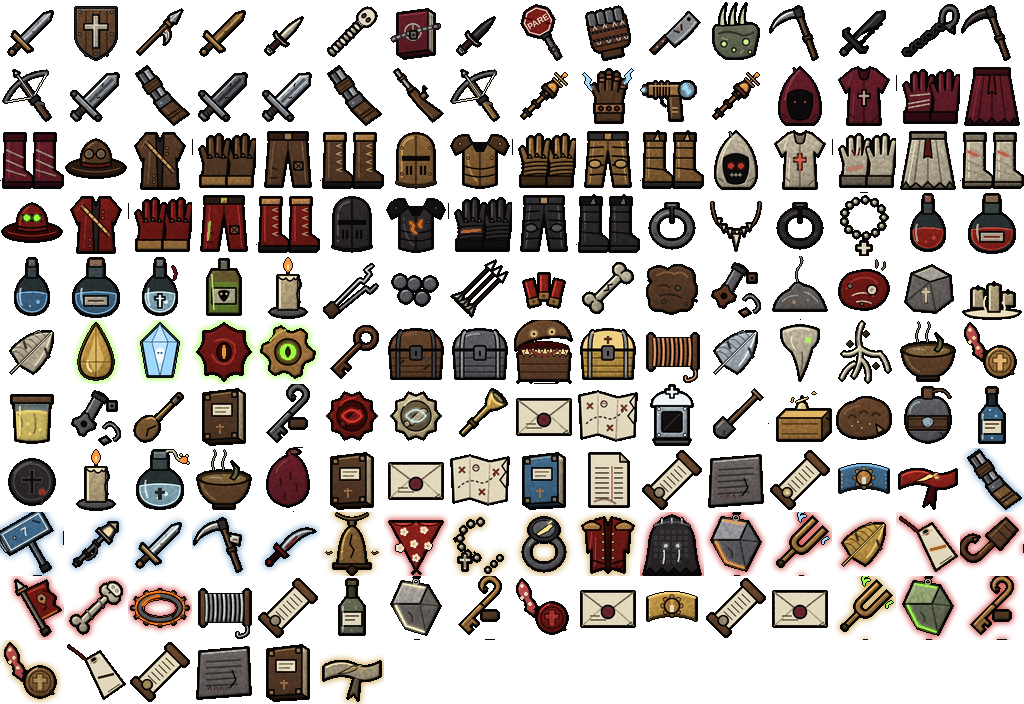
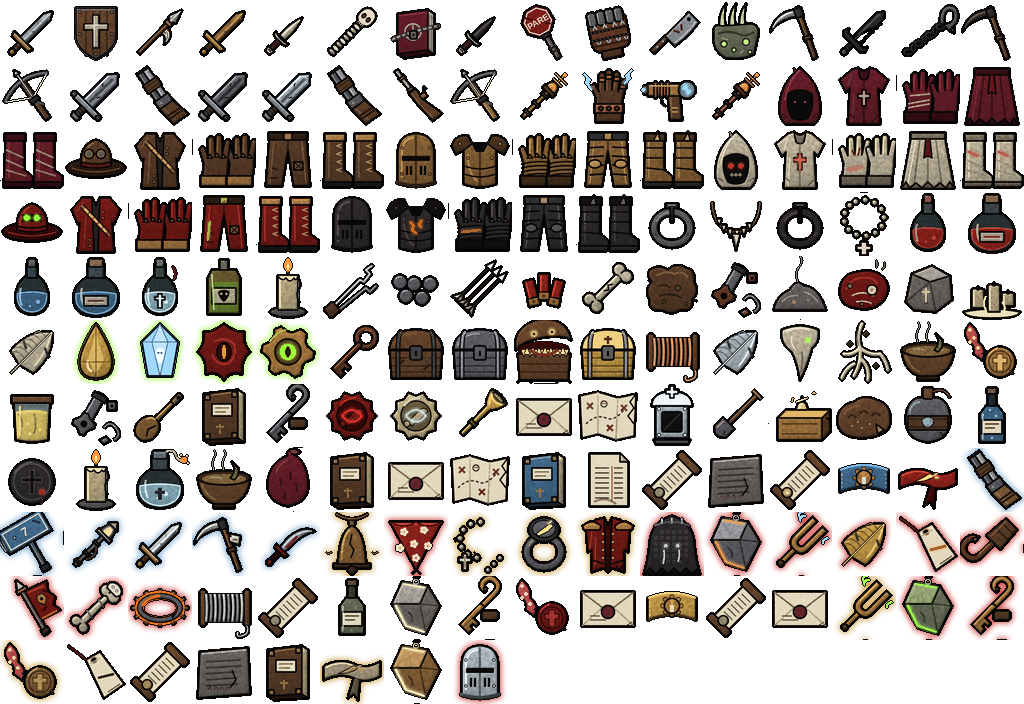
Linha F: final "O Que Cura" revela que Simão é o arcanjo Rafael; Elmo de Rafael
Claude-Session: https://claude.ai/code/session_01TeJYJFHcFMgk6Qv3uMBtUj

Changed region(s): [[0.375, 0.9062, 0.5, 1.0]]

diff --git a/design/skills-itens/fontes/itens_data.py b/design/skills-itens/fontes/itens_data.py
@@ -144,6 +144,7 @@ MISSOES = {
  "leitura_carta_apostata":("carta","pano",None,[1,1]), "contador_isaura":("diapasao","latao","#9dff4a",[1,2]),
  "placa_coveiro":("etiqueta","ferro",None,[1,1]), "folha_tombo":("pergaminho","ouro",None,[1,1]), "ultimo_tijolo":("tabua","cinza",None,[1,1]),
  "leitura_livro_tombo":("livro","couro",None,[2,2]), "faixas_betania":("fita","pano",None,[1,1]),
+ "eco_do_nome":("estilhaco","bronze","#fff2c0",[1,1]), "elmo_rafael":("elmo_pesado","prata","#fff2c0",[2,2]),
 }
 # lendario:<chefe/elite> de drops.json -> itens com nome da thread Missões
 POOLS_LENDARIOS = {

diff --git a/design/missoes/historia.md b/design/missoes/historia.md
@@ -129,7 +129,7 @@ A igreja da paróquia, enterrada até as janelas do coro. Só a torre e o telhad
 
 **Simão** cuida do Cemitério de São Lázaro desde que alguém se lembra. No deserto, o trabalho do coveiro virou o contrário: a maré de areia desenterra os túmulos toda noite, e ele passa os dias cobrindo de novo. Ele é o único que anda entre os Não-Julgados sem ser atacado. Não serve nenhuma facção. Atende quem trouxer velas.
 
-O segredo dele (nunca dito em voz alta, só insinuado): Simão é **Lázaro**, o homem que foi chamado de volta da morte há dois mil anos. Morreu duas vezes e não conseguiu ficar morto nenhuma. A cidade tem o nome dele. Quando a trombeta der a nota inteira, ele finalmente será julgado, e ele ainda não decidiu se quer isso.
+O segredo dele (nunca dito em voz alta, só insinuado; ver 4.1, onde a linha F revela que até isso é disfarce): Simão é **Lázaro**, o homem que foi chamado de volta da morte há dois mil anos. Morreu duas vezes e não conseguiu ficar morto nenhuma. A cidade tem o nome dele. Quando a trombeta der a nota inteira, ele finalmente será julgado, e ele ainda não decidiu se quer isso.
 
 ### 4.1 Linha F: Vem Para Fora (o mistério de quem foi São Lázaro)
 
@@ -142,6 +142,12 @@ Pedida pelo Jefin (11/10/2026). Níveis 4 a 11, as duas facções. Nunca confirm
 | f03 | Corvina | O Livro do Tombo: em 1688 chegou "de Betânia" um homem com faixas de linho que pediu o ofício de coveiro; "Já fui um"; morreu em 1714, 1803 e 1891 e sempre voltou |
 | f04 | Frei Anacleto | Simão assentou o último tijolo da cela de Anacleto em 1693; o tijolo tem LAZARVS riscado e, embaixo, SIMÃO |
 | f05 | Simão | O Primeiro Sepulcro, vazio e varrido, com "Lázaro, vem para fora" gravado em grego. Escolha: guardar o segredo, perguntar o que ele quer quando a nota terminar, ou contar à facção |
+
+| f06 | Frei Anacleto, entrega Simão (requer f05 e c06) | **A verdade:** um eco na Câmara da Trombeta chama "Rafael". Simão não é Lázaro: é o **arcanjo Rafael** ("Deus cura"). |
+
+**A verdade de Simão (ideia do Jefin, 11/10/2026).** Em 1688 o Coro mandou o arcanjo Rafael guardar a quinta trombeta debaixo de uma vila sem nome. Ele tomou o nome de Lázaro, o homem que viu sair do túmulo em Betânia (foi lá que viu Jesus chorar por um humano e entendeu que o fim não era o plano inteiro), e o ofício de coveiro. Em três séculos se afeiçoou aos humanos; "morreu" em 1714, 1803 e 1891 e sempre voltou, porque arcanjo não morre direito. Na meia nota, não conseguiu permitir o fim: na **Batalha do Impasse**, no céu sobre São Lázaro, lutou contra o próprio Coro e segurou a guarda de Zacarias por três segundos, a janela que a Vigília precisou para vazar o chumbo no bocal. O Coro arrancou suas asas; as faixas de linho escondem as cicatrizes nas costas. O Livro da Retirada dos Arautos não fala dele. Eco bíblico: no livro de Tobias, Rafael andou disfarçado de homem ao lado do jovem Tobias; Simão tem carinho pelo Tobias 'Pavio'.
+
+Recompensa de f06: **Elmo de Rafael** (cabeça, único, nível 12): +5 em FOR, AGI, VIT e ESP, +200 de HP e 14% a menos de dano recebido de jogadores. Os números finais são da thread de combate.
 
 Flags: `lazaro_segredo_guardado`, `lazaro_pediu_cova` (ele quer que alguém o cubra, uma vez, e ficar), `lazaro_revelado` (a facção vai atrás dele: gancho para o futuro). Objetos novos `andor_padroeiro` e `sepulcro_primeiro` estão marcados `pendente` para a Level design posicionar no mapa.
 

diff --git a/design/missoes/README.md b/design/missoes/README.md
@@ -57,7 +57,7 @@ d05 O Muro das Sombras    beira_da_tempestade  e05a (Malfas) / e05v (Odete), req
 d06 Absinto-2 (elite Brandão) [escolha]         chiqueiro_do_carnica [escolha]
 ```
 
-Linha F, Vem Para Fora (o mistério de quem foi São Lázaro, níveis 4 a 11, as duas facções):
+Linha F, Vem Para Fora (o mistério de quem foi São Lázaro, níveis 4 a 12, as duas facções):
 
 ```
 f01v (Mãe Cardo) / f01a (Lúcio, requer s05) -> Corvina
@@ -65,6 +65,7 @@ f02 O Rosto do Padroeiro     procissao_parada + andor_padroeiro*
 f03 As Folhas do Livro do Tombo  torre_sino + folhas com os corvos
 f04 O Último Tijolo (Anacleto, requer c04)  monges emparedados
 f05 Vem Para Fora (Simão)     sepulcro_primeiro* [escolha]
+f06 O Que Cura (Anacleto -> Simão, requer c06)  ecos da trombeta -> a verdade: Rafael; Elmo de Rafael
 ```
 
 Objetos marcados com * são novos e têm `pendente: true` e `posicao_sugerida` em `objetos.json` para a Level design posicionar.
